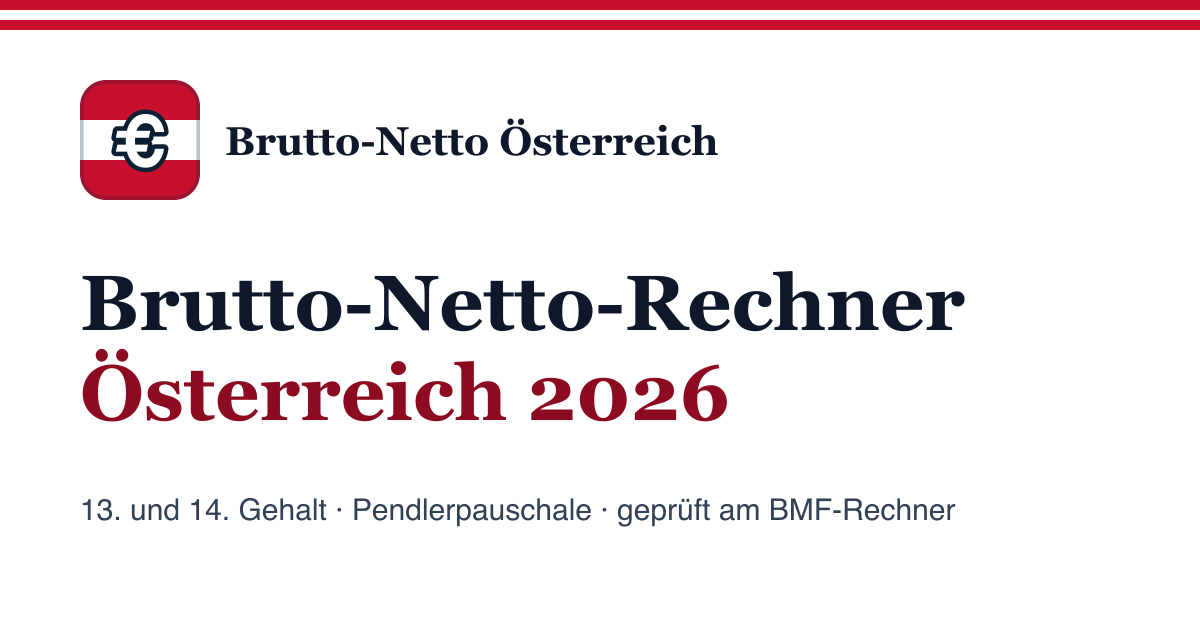
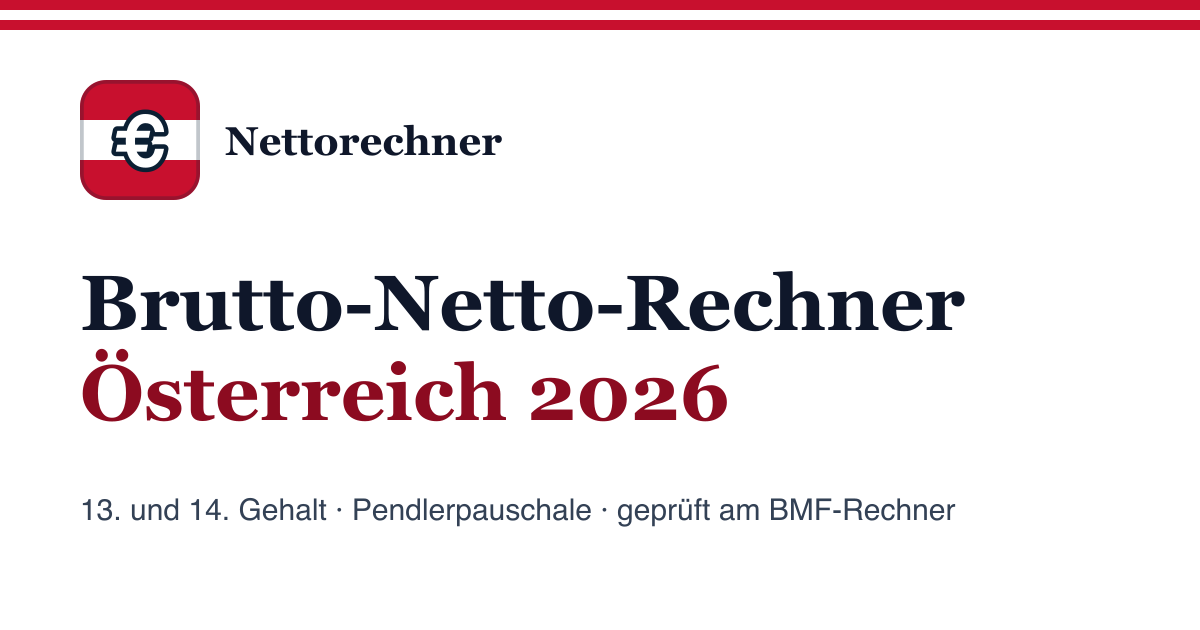
Mise en ligne sur nettorechner.at : domaine, marque Nettorechner, CNAME et déploiement Pages
- renommer-site.py : at-brutto-netto.example → nettorechner.at, marque « Nettorechner » (de + en)
- public/CNAME, workflow GitHub Actions (Pages), images OG régénérées
- scripts de contrôle recopiés de la trame ; tous les contrôles factory à 0

Changed region(s): [[0.185, 0.181, 0.6167, 0.2714]]

diff --git a/src/data/site-config.ts b/src/data/site-config.ts
@@ -1,6 +1,6 @@
 /** Configuration centrale du site (générée par new-site.py). */
-export const SITE_URL = "https://at-brutto-netto.example";
-export const SITE_NAMES: Record<string, string> = {"de": "Brutto-Netto Österreich", "en": "Austria Net Pay"};
+export const SITE_URL = "https://nettorechner.at";
+export const SITE_NAMES: Record<string, string> = {"de": "Nettorechner", "en": "Nettorechner"};
 export const LANG_TAGS: Record<string, string> = {"de": "de-AT", "en": "en-AT"};
 export const OG_LOCALES: Record<string, string> = {"de": "de_AT", "en": "en_GB"};
 /** Zahlenformat je Sprache: deutsch mit Punkt als Tausendertrennzeichen (1.308,39), englisch für Expats (1,308.39). */
@@ -18,7 +18,7 @@ export const AUTHOR_DESC: Record<string, string> = {"de": "Radif Partners rechne
  *  themes reellement traites par le site, pas une liste de mots-cles : un sujet
  *  declare ici sans page qui le couvre est une declaration fausse. */
 export const KNOWS_ABOUT: Record<string, string[]> = {"de": ["Lohnsteuer Österreich", "Sozialversicherungsbeiträge nach ASVG", "13. und 14. Bezug, Jahressechstel", "Pendlerpauschale und Pendlereuro", "Familienbonus Plus und Kindermehrbetrag", "Alleinverdiener- und Alleinerzieherabsetzbetrag", "Arbeitslosengeld und Notstandshilfe", "Kinderbetreuungsgeld", "Abfertigung neu und alt", "Überstundenzuschläge"], "en": ["Austrian wage tax", "Austrian social insurance contributions", "13th and 14th salary, annual sixth rule", "Commuter allowance (Pendlerpauschale)", "Familienbonus Plus child tax credit", "Sole earner and single parent credits", "Unemployment benefit and emergency assistance", "Childcare allowance", "Severance pay (Abfertigung)", "Overtime premiums"]};
-export const CONTACT_EMAIL = "contact@at-brutto-netto.example";
+export const CONTACT_EMAIL = "contact@nettorechner.at";
 export const THEME_COLOR = '#C8102E';
 export const LOGO_SYMBOL = '€';
 export const BING_VERIFY_CODE = '';

diff --git a/scripts/check-regles.py b/scripts/check-regles.py
@@ -19,9 +19,9 @@ import concurrent.futures as cf, glob, html, os, re, sys, time, urllib.request, 
 site = sys.argv[1] if len(sys.argv) > 1 else '.'
 ROOT = os.path.expanduser('~/Documents/GitHub')
 DOMAINES = [l.strip() for l in open(os.path.join(ROOT, '_trame/domaines-ovh.txt')) if l.strip() and not l.startswith('#')]
-OFFICIEL = re.compile(r"(\.gouv\.|\.gov(\.|/|$)|\.gob\.|\.gc\.ca|admin\.ch|europa\.eu|service-public|urssaf|impots|france-travail|legifrance|ameli|caf\.fr|bundesfinanzministerium|bundesagentur|arbeitsagentur|bmf|elster|agenziaentrate|inps|belastingdienst|uwv|rijksoverheid|skatteverket|skatteetaten|nav\.no|revenue\.ie|citizensinformation|ato\.gov|servicesaustralia|fairwork|iras\.gov|cpf\.gov|ird\.govt|workandincome|canada\.ca|cra-arc|seg-social|sepe\.es|agenciatributaria|boe\.es|portaldasfinancas|receita|gov\.br|mohre|zatca|hmrc|gov\.uk|irs\.gov|ssa\.gov|bls\.gov|dol\.gov|ec\.europa)", re.I)
+OFFICIEL = re.compile(r"(\.gouv\.|\.gov(\.|/|$)|\.gob\.|\.gc\.ca|admin\.ch|europa\.eu|service-public|urssaf|impots|france-travail|legifrance|ameli|caf\.fr|bundesfinanzministerium|bundesagentur|arbeitsagentur|bmf|elster|agenziaentrate|inps|belastingdienst|uwv|rijksoverheid|skatteverket|skatteetaten|nav\.no|revenue\.ie|citizensinformation|ato\.gov|servicesaustralia|fairwork|iras\.gov|cpf\.gov|ird\.govt|workandincome|canada\.ca|cra-arc|seg-social|sepe\.es|agenciatributaria|boe\.es|portaldasfinancas|receita|gov\.br|mohre|zatca|hmrc|gov\.uk|irs\.gov|ssa\.gov|bls\.gov|dol\.gov|ec\.europa|vero\.fi|kela\.fi|finlex\.fi|etk\.fi|tyoelake\.fi|tyj\.fi|tyosuojelu\.fi|stat\.fi)", re.I)  # Finlande ajoutée le 2026-10-05 (fi-laskurit)
 RE_A_PROPOS = re.compile(r"/(about|about-us|a-propos|qui-sommes-nous|ueber-uns|uber-uns|sobre|sobre-nosotros|sobre-nos|chi-siamo|over-ons|om-oss|om-os|om|quem-somos|tietoa|meista|o-nas|sxetika|chi-siamo|despre)\b", re.I)
-RE_METHODE = re.compile(r"(method|methodo|méthodo|methodik|metodolog|metode|berekening|calcul-|how-we-calculate|comment-calcul|sources|laskentatapa|menetelma)", re.I)
+RE_METHODE = re.compile(r"(method|methodo|méthodo|methodik|metodolog|metode|berekening|calcul-|how-we-calculate|comment-calcul|sources|laskentatapa|menetelma|metod)", re.I)
 RE_MAJ = re.compile(r"(mis à jour|mise à jour|updated|last updated|aktualisiert|stand:|actualizado|aggiornat|bijgewerkt|oppdatert|uppdaterad|atualizad|opdateret|päivitetty|zaktualizowano|aktualizacja|ενημερώθηκε|ενημέρωση|aggiornato)", re.I)
 SLOTS = re.compile(r"<ins\b[^>]*adsbygoogle|data-ad-slot|class=[\"'][^\"']*\bad-slot", re.I)
 

diff --git a/scripts/check-trame.py b/scripts/check-trame.py
@@ -74,19 +74,21 @@ SERVICE = re.compile(
     r'vilkar|vilkaar|informasjonskapsler|woordenlijst|redactie|'
     # Polonais (kalkulatorwynagrodzen.pl, 2026-10-03)
     r'o-nas|regulamin|polityka-prywatnosci|polityka-redakcyjna|slownik|'
+    # Finnois (fi-laskurit, 2026-10-05)
+    r'tietoa|laskentatapa|yhteystiedot|toimitusperiaatteet|tietosuoja|kayttoehdot|evasteet|upota-laskuri|'
     # Espagnol et italien (calcularsueldoneto.mx, aliquoteimu.it, 2026-10-03)
     r'glosario|domande-frequenti)', re.I)
 
 # Liens que le pied de page doit porter sur toutes les pages (§8.4 identité
 # légale, §12). On accepte n'importe laquelle des variantes linguistiques.
 FOOTER_LINKS = {
-    'legal':   r'(impressum|mentions-legales|aviso-legal|legal-notice|colofon|legal|'
+    'legal':   r'(kayttoehdot|impressum|mentions-legales|aviso-legal|legal-notice|colofon|legal|'
                r'terms|conditions|voorwaarden|disclaimer|villkor|betingelser|vilkar|vilkaar|regulamin|nota-prawna)',
-    'privacy': r'(datenschutz|privacy|confidentialite|confidentialidade|privacidad|'
+    'privacy': r'(tietosuoja|datenschutz|privacy|confidentialite|confidentialidade|privacidad|'
                r'privacidade|protection-donnees|gegevensbescherming|persondata|personvern|'
                r'integritetspolicy|privatliv|polityka-prywatnosci)',
-    'about':   r'(about|a-propos|ueber-uns|over-ons|sobre|chi-siamo|om-os|om-oss|o-nas)',
-    'method':  r'(method|methode|methodik|methodologie|metodolog|metod|metode)',
+    'about':   r'(tietoa|about|a-propos|ueber-uns|over-ons|sobre|chi-siamo|om-os|om-oss|o-nas)',
+    'method':  r'(laskentatapa|method|methode|methodik|methodologie|metodolog|metod|metode)',
 }
 
 # §10.1 — réglages par défaut de Tailwind et des bibliothèques de composants.
@@ -114,7 +116,9 @@ DISCLAIMER = re.compile(
     # Polonais : « wyniki mają charakter szacunkowy », « nie stanowi doradztwa podatkowego »
     r'charakter szacunkow|nie stanowi\w* doradztw|to nie jest doradztwo|'
     # Grec (ypologismosmisthou.gr, 2026-10-03) : « ενδεικτικοί υπολογισμοί », « δεν αποτελούν συμβουλή ».
-    r'ενδεικτικ|δεν αποτελ)', re.I)
+    r'ενδεικτικ|δεν αποτελ|'
+    # Finnois (fi-laskurit, 2026-10-05) : « tulokset ovat arvioita », « ei korvaa verokorttia ».
+    r'arvio|ei korvaa|eivätkä ne korvaa)', re.I)
 
 ISO_DATE = re.compile(r'\b20\d{2}-\d{2}-\d{2}\b')
 # La date de mise à jour est désormais écrite dans la langue du site

diff --git a/scripts/check-simulateurs.py b/scripts/check-simulateurs.py
@@ -16,7 +16,7 @@ import glob, re, sys
 # check-trame rangeaient déjà parmi les pages de service. Seul ce contrôle lui
 # réclamait un simulateur (valuablecircle.com, /conditions/, 2026-10-01).
 
-SERVICE = re.compile(r'/(?:about|a-propos|om-oss|over-ons|uber-uns|ueber-uns|chi-siamo|sobre|quienes-somos|acerca|contact|contacto|contatti|kontakt|editorial|politique-editoriale|charte|politica-editorial|redaksjonell|redaktionel|redactie|redaktion|privacy|privacidad|privacidade|personvern|privatliv|datenschutz|confidentialite|conditions|cgu|cgv|terms|vilkar|vilkaar|villkor|integritet|mentions-legales|legal|disclaimer|privacidade|sobre|glossario|metodologia|impressum|aviso-legal|termos|cookies|cookie|politica-cookies|politica-privacidad|terminos|informasjonskapsler|widget|embed|glossary|glossaire|glosario|glossario|glossar|woordenlijst|ordliste|ordbog|ordlista|method|metod|metode|methode|domande-frequenti|o-nas|regulamin|polityka-prywatnosci|polityka-redakcyjna|slownik|nota-prawna)[^/]*/')
+SERVICE = re.compile(r'/(?:tietoa|laskentatapa|yhteystiedot|toimitusperiaatteet|tietosuoja|kayttoehdot|evasteet|upota-laskuri|about|a-propos|om-oss|over-ons|uber-uns|ueber-uns|chi-siamo|sobre|quienes-somos|acerca|contact|contacto|contatti|kontakt|editorial|politique-editoriale|charte|politica-editorial|redaksjonell|redaktionel|redactie|redaktion|privacy|privacidad|privacidade|personvern|privatliv|datenschutz|confidentialite|conditions|cgu|cgv|terms|vilkar|vilkaar|villkor|integritet|mentions-legales|legal|disclaimer|privacidade|sobre|glossario|metodologia|impressum|aviso-legal|termos|cookies|cookie|politica-cookies|politica-privacidad|terminos|informasjonskapsler|widget|embed|glossary|glossaire|glosario|glossario|glossar|woordenlijst|ordliste|ordbog|ordlista|method|metod|metode|methode|domande-frequenti|o-nas|regulamin|polityka-prywatnosci|polityka-redakcyjna|slownik|nota-prawna)[^/]*/')
 INPUT = re.compile(r'<input\b(?![^>]*type="(?:hidden|search|checkbox|radio|submit|button)")[^>]*>|<select\b', re.I)
 
 site = sys.argv[1].rstrip('/')

diff --git a/scripts/build-llms.py b/scripts/build-llms.py
@@ -13,7 +13,7 @@ for f in sorted(glob.glob('dist/*/**/index.html', recursive=True)):
     t = html.unescape(re.search(r'<title>(.*?)</title>', d, re.S).group(1))
     m = re.search(r'name="description" content="(.*?)"', d, re.S)
     rows[lang].append((path, t, html.unescape(m.group(1)) if m else ''))
-out = ['# Brutto-Netto Österreich', '', '> Brutto-Netto-Rechner für Österreich 2026 mit Lohnsteuer, Sozialversicherung, 13. und 14. Gehalt Monat für Monat (Jahressechstel, Kontrollrechnung), Pendlerpauschale und Pendlereuro, Familienbonus Plus, Arbeitslosengeld, Kinderbetreuungsgeld und Abfertigung. Herausgeber: Radif Partners, unabhängig von Behörden und Arbeitgebern. Alle Rechtswerte 2026 stehen datiert in einer geprüften Parameterdatei; der Lohnrechner stimmt in ' + str(N) + ' Fällen auf den Cent mit dem amtlichen BMF-Rechner überein.', '',
+out = ['# Nettorechner', '', '> Brutto-Netto-Rechner für Österreich 2026 mit Lohnsteuer, Sozialversicherung, 13. und 14. Gehalt Monat für Monat (Jahressechstel, Kontrollrechnung), Pendlerpauschale und Pendlereuro, Familienbonus Plus, Arbeitslosengeld, Kinderbetreuungsgeld und Abfertigung. Herausgeber: Radif Partners, unabhängig von Behörden und Arbeitgebern. Alle Rechtswerte 2026 stehen datiert in einer geprüften Parameterdatei; der Lohnrechner stimmt in ' + str(N) + ' Fällen auf den Cent mit dem amtlichen BMF-Rechner überein.', '',
        'Alle Berechnungen laufen im Browser. Ergebnisse sind Schätzungen nach den amtlichen Werten und ersetzen weder Lohnzettel noch Bescheid.', '']
 for lang, titel in (('de', '## Seiten auf Deutsch'), ('en', '## Pages in English')):
     out.append(titel); out.append('')

diff --git a/scripts/check-seo.py b/scripts/check-seo.py
@@ -52,7 +52,8 @@ PRIMAIRES = None  # renseigne plus bas, une fois `_sources_primaires` definie
 
 # Pages de service : pas de cible de longueur (plan §2.2, lignes 5 à 8).
 SERVICE = re.compile(
-    r'/[a-z-]*(faq|questions|preguntas|veelgestelde|haeufige|about|a-propos|ueber-uns|over-ons|'
+    # Finnois (fi-laskurit, 2026-10-05)
+    r'/[a-z-]*(tietoa|laskentatapa|yhteystiedot|toimitusperiaatteet|tietosuoja|kayttoehdot|evasteet|upota-laskuri|faq|questions|preguntas|veelgestelde|haeufige|about|a-propos|ueber-uns|over-ons|'
     r'sobre-nosotros|sobre(?=/|$)|methodology|methodik|methodologie|methode|metodologia|method|widget|'
     # pages légales : ni cible de longueur ni sources officielles (même liste que check-trame)
     # « disclaimer » : page de confiance comme les mentions légales. Lui imposer
@@ -162,6 +163,8 @@ OFFICIAL = re.compile(
     # Golfe : u.ae est le portail officiel du gouvernement fédéral des Émirats,
     # au même titre que service-public.fr, mais son domaine ne contient pas « gov ».
     r'|u\.ae/|mohre\.gov\.ae|dha\.gov\.ae|doh\.gov\.ae|mohap\.gov\.ae'
+    # Finlande (fi-laskurit, 2026-10-05) : Verohallinto, Kela, Finlex, Eläketurvakeskus, Työeläke.fi, TYJ, Työsuojelu, Tilastokeskus
+    r'|vero\.fi|kela\.fi|finlex\.fi|etk\.fi|tyoelake\.fi|tyj\.fi|tyosuojelu\.fi|stat\.fi|suomi\.fi'
     r')[a-z0-9./_?=&#-]*', re.I)
 
 # La liste ci-dessus est celle des administrations : elle suppose que le sujet du

diff --git a/scripts/check-portefeuille.py b/scripts/check-portefeuille.py
@@ -22,7 +22,7 @@ SORTIES = ('dist', 'out', 'build', 'docs', 'output', '_site', 'www')
 SEUIL = 0.4
 # Pages légales : adresse de l'hébergeur, clauses de CGU et mentions sont identiques
 # par nature et ne comptent pas pour Google ; les inclure noierait les vraies copies.
-LEGAL = re.compile(r'/(terms|terms-of-service|terms-of-use|privacy|privacy-policy|cookies?|legal|legal-notice|disclaimer|mentions-legales|confidentialite|cgu|impressum|datenschutz|agb|aviso-legal|privacidad|termini|note-legali|voorwaarden|vilkar|villkor|personvern|integritet|termos|privacidade)(/|\.html|$)', re.I)
+LEGAL = re.compile(r'/(terms|terms-of-service|terms-of-use|privacy|privacy-policy|cookies?|legal|legal-notice|disclaimer|mentions-legales|confidentialite|cgu|impressum|datenschutz|agb|aviso-legal|privacidad|termini|note-legali|voorwaarden|vilkar|villkor|personvern|integritet|termos|privacidade|kayttoehdot|tietosuoja|evasteet)(/|\.html|$)', re.I)
 
 
 def sortie_de(site: Path):

diff --git a/CONTRIBUTING-SEITEN.md b/CONTRIBUTING-SEITEN.md
@@ -1,4 +1,4 @@
-# Eine Seite hinzufügen (Brutto-Netto Österreich)
+# Eine Seite hinzufügen (Nettorechner)
 
 Anleitung für Agenten, die die Seite erweitern. Vor der ersten Zeile ganz lesen, zusammen mit
 `~/Documents/GitHub/RECETTE-SITE.md` (§0, §4.1, §6, §7, §9.3, §11, §17.4, §21, §26).
